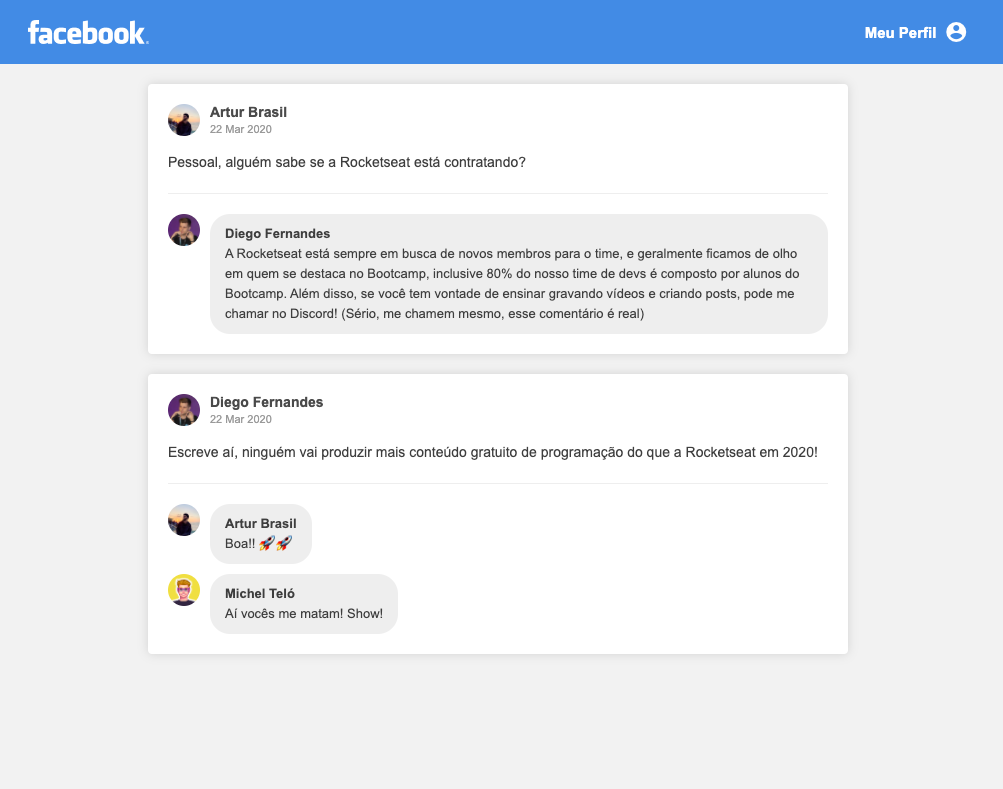
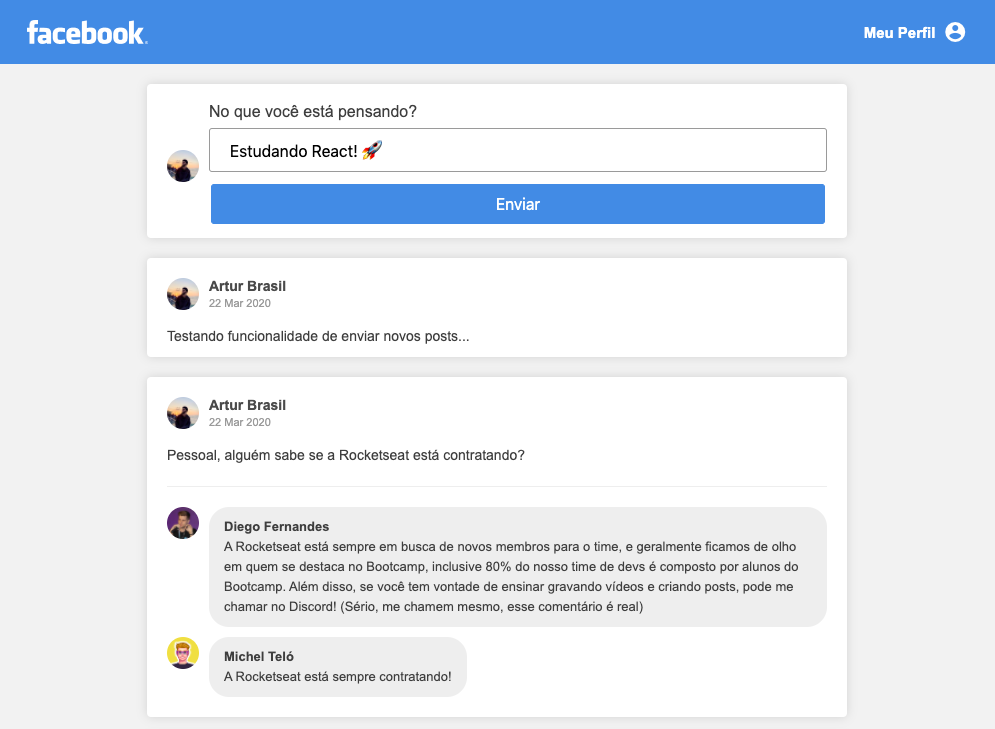
feature: create new posts

Changed region(s): [[0.1558, 0.1207, 0.8412, 0.845], [0.0, 0.0302, 1.0, 0.0905], [0.1558, 0.8752, 0.4673, 0.9355]]

diff --git a/src/components/PostList.js b/src/components/PostList.js
@@ -3,6 +3,8 @@ import Post from './Post';
 
 class PostList extends Component {
   state = {
+    idPost: 3,
+    newPost: '',
     posts: [
       {
         id: 1,
@@ -20,6 +22,14 @@ class PostList extends Component {
               avatar: 'https://avatars1.githubusercontent.com/u/2254731?v=4',
             },
             content: 'A Rocketseat está sempre em busca de novos membros para o time, e geralmente ficamos de olho em quem se destaca no Bootcamp, inclusive 80% do nosso time de devs é composto por alunos do Bootcamp. Além disso, se você tem vontade de ensinar gravando vídeos e criando posts, pode me chamar no Discord! (Sério, me chamem mesmo, esse comentário é real)',
+          },
+          {
+            id: 2,
+            author: {
+              name: 'Michel Teló',
+              avatar: 'https://avatars2.githubusercontent.com/u/4248081?v=4',
+            },
+            content: 'A Rocketseat está sempre contratando!',
           }
         ]
       },
@@ -33,7 +43,7 @@ class PostList extends Component {
         content: 'Escreve aí, ninguém vai produzir mais conteúdo gratuito de programação do que a Rocketseat em 2020!',
         comments: [
           {
-            id: 2,
+            id: 1,
             author: {
               name: 'Artur Brasil',
               avatar: 'https://avatars0.githubusercontent.com/u/22780735?v=4',
@@ -53,9 +63,48 @@ class PostList extends Component {
     ]
   };
 
+  handleInputChange = e => {
+    this.setState({ newPost: e.target.value })
+  }
+
+  handleSubmit = e => {
+    e.preventDefault();
+
+    const newpost = { 
+      id: this.state.idPost,
+      author: {
+        name: 'Artur Brasil',
+        avatar: 'https://avatars0.githubusercontent.com/u/22780735?v=4'
+      },
+      date: '22 Mar 2020',
+      content: this.state.newPost,
+      comments: []
+    }
+
+    this.setState({ 
+      posts: [newpost, ...this.state.posts],
+      newPost: '',
+      idPost: this.state.idPost + 1
+    });
+  }
+
   render() {
     return (
       <div className="postlist">
+        <form onSubmit={this.handleSubmit}>
+          <div className="new-post">
+            <img className="avatar" src="https://avatars0.githubusercontent.com/u/22780735?v=4"/>
+            <div className="details">
+              <span>No que você está pensando?</span>
+              <input 
+                type="text" 
+                onChange={this.handleInputChange} 
+                value={this.state.newPost}
+              />
+              <button type="submit">Enviar</button>
+            </div>
+          </div>
+        </form>
         {this.state.posts.map(post => <Post key={post.id} {...post} />)}
       </div>
     );

diff --git a/src/App.css b/src/App.css
@@ -79,7 +79,7 @@ nav > div span {
   border-radius: 16px;
 }
 
-.details {
+.post-header .details {
   display: flex;
   flex-direction: column;
   margin-left: 10px;
@@ -135,4 +135,48 @@ nav > div span {
 
 .comment span {
   font-weight: bold;
+}
+
+.new-post {
+  display: flex;
+  align-items: center;
+  line-height: 16px;
+  margin-bottom: 20px;
+  background: #FFFFFF;
+  border-radius: 4px;
+  padding: 20px 20px 10px;
+  box-shadow: 0px 0px 10px rgba(0, 0, 0, 0.133916);
+}
+
+.new-post .details {
+  width: 100%;
+  display: flex;
+  flex-direction: column;
+  margin-left: 10px;
+  font-size: 16px;
+  line-height: 16px;
+  color: #3E3E3E;
+}
+
+.new-post .details input {
+  width: 100%;
+  padding: 12px 20px;
+  margin: 8px 0;
+  font-size: 16px;
+  box-sizing: border-box;
+  border-color: #9A9A9A;
+  border-width: 1px;
+  border-style: solid;
+  border-radius: 3px;
+}
+.new-post .details button {
+  background-color: #4A90E2;
+  font-size: 16px;
+  border-radius: 3px;
+  border-color: #4A90E2;
+  color: white;
+  padding: 10px 32px;
+  text-decoration: none;
+  margin: 4px 2px;
+  cursor: pointer;
 }

diff --git a/src/components/PostComments.js b/src/components/PostComments.js
@@ -1,20 +1,24 @@
 import React from 'react';
 
 function PostComments({ comments }) {
-  return (
-    <div className="post-comments">
-      <div className="divider"></div>
-      {comments.map(comment => (
-        <div className="comment" key={comments.id}>
-          <img src={comment.author.avatar} className="avatar"/>
-          <p>
-            <span>{comment.author.name}</span>
-            {comment.content}
-          </p>
-        </div>
-      ))}
-    </div>
-  );
+  if(comments.length > 0){
+    return (
+      <div className="post-comments">
+        <div className="divider"></div>
+        {comments.map(comment => (
+          <div className="comment" key={comment.id}>
+            <img src={comment.author.avatar} className="avatar"/>
+            <p>
+              <span>{comment.author.name}</span>
+              {comment.content}
+            </p>
+          </div>
+        ))}
+      </div>
+    );
+  }
+  else
+    return <></>;
 }
 
 export default PostComments;

diff --git a/README.md b/README.md
@@ -82,4 +82,6 @@ data.comments.map(comment => <Comment key={comment.id} data={comment} />);
 
 ## :rocket: Resultado
 
+Além do que foi pedido no desafio, foi criada uma funcionalidade para adcionar novos Posts!
+
 ![Resultado](.github/resultado.png)
